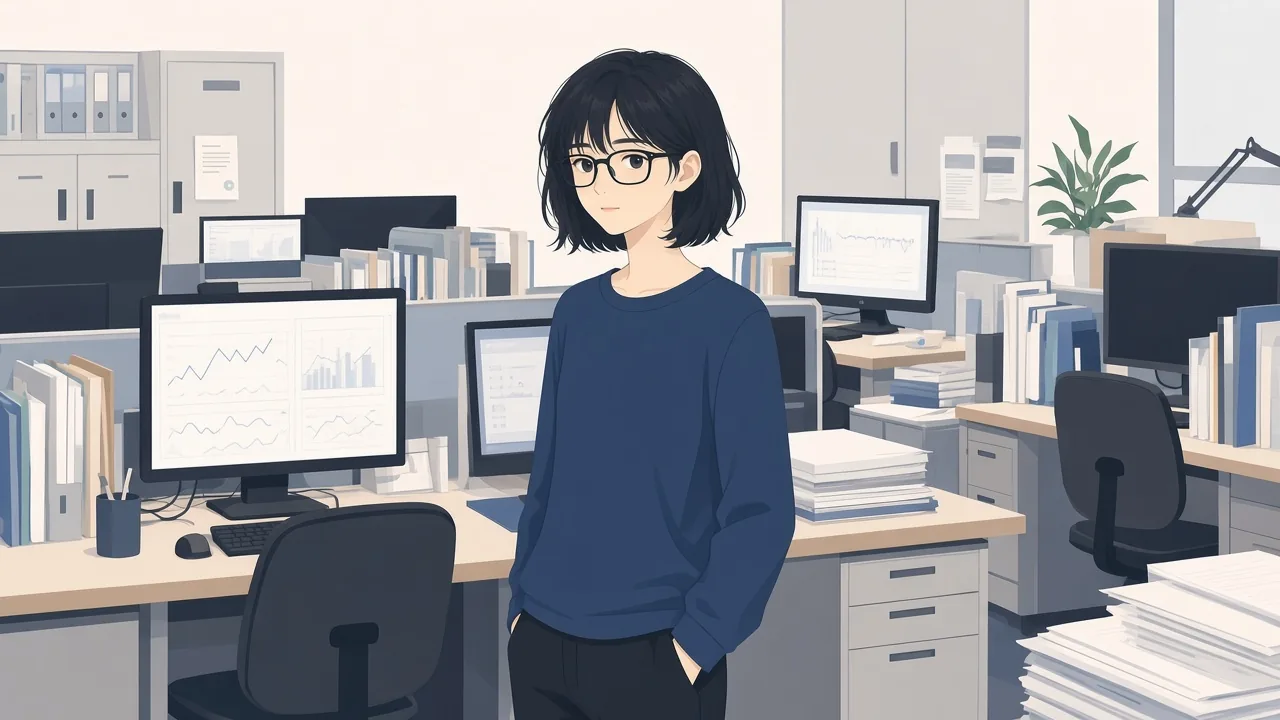
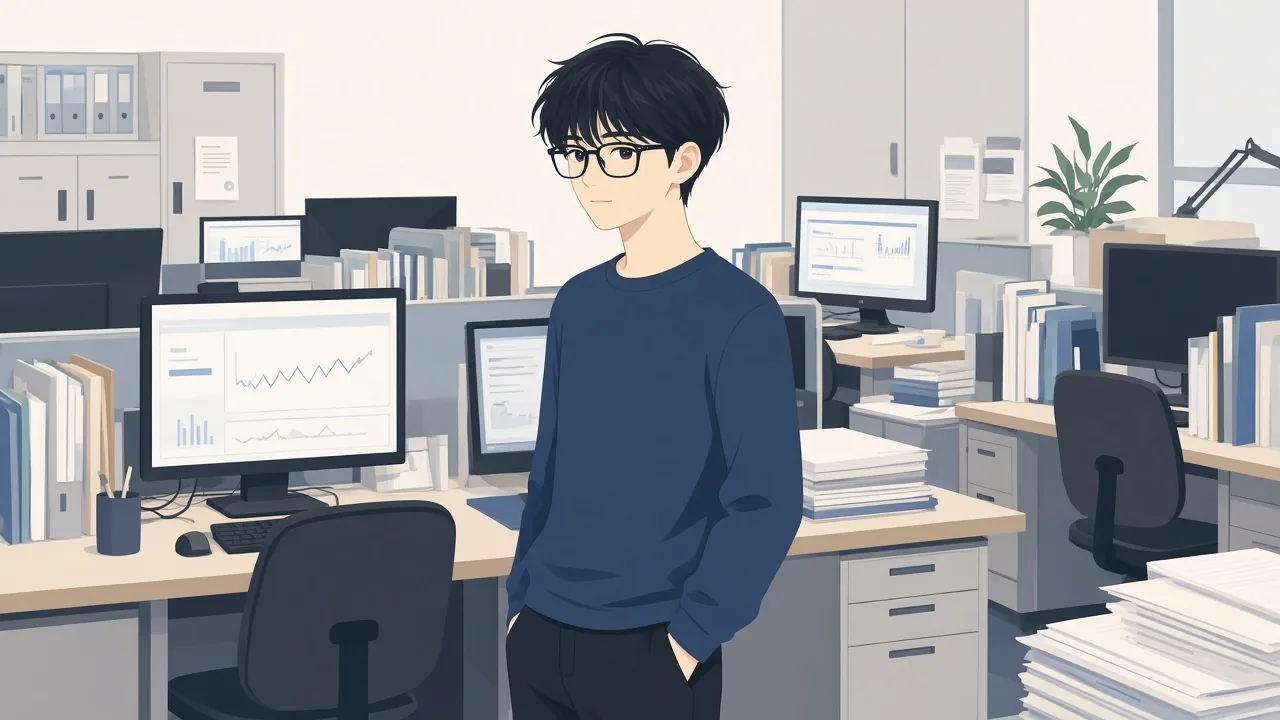
場景改回較早的歐海辰圖，人物卡去掉瘦削。

diff --git a/index.html b/index.html
@@ -39,7 +39,7 @@ button{cursor:pointer;touch-action:manipulation;}
  content:"";position:absolute;inset:0;
  background:
   linear-gradient(180deg,rgba(8,10,12,.15) 0%,rgba(8,10,12,.55) 42%,rgba(8,10,12,.92) 100%),
-  url("assets/bg_counsel.webp?v=thin2") center/cover no-repeat;
+  url("assets/bg_counsel.webp?v=early") center/cover no-repeat;
 }
 #title h1,#title .tbtn{position:relative;z-index:1;}
 #title h1{
@@ -258,7 +258,7 @@ var PLACES={
 var PLACE_ORDER=["counsel","hall","data","nurse","lobby","cafe","ward","roof","admin","er","home"];
 var PEOPLE={
  haichen:{n:"歐海辰",g:"f",age:28,role:"血管數據分析員",loc:"counsel",around:1,color:"#d7e2dc",know:[],
-  card:"女，28 歲。身形瘦削、虛弱。短黑髮，粗黑框眼鏡。不是病人時穿深藍色襯衫；人在病房或急診、已入院或躺在床上時才是病人。結構變數，不是裝飾。亞斯伯格、創傷後應激、系統性血管炎、冠狀動脈痙攣（隨身帶硝酸甘油）、偏頭痛時視野模糊。靠近語言區的動脈瘤與血型，開局她自己還不知道，旁白不可預告。說話像在報數據，痛的時候淺笑，緊張時弄衣角。目標：不要被送進精神病院，不要拖累陳海柔。開局想不起護士長。刪掉她的能動、她的醫療危機或她的關鍵位置，都是禁止的。"},
+  card:"女，28 歲。短黑髮，粗黑框眼鏡。不是病人時穿深藍色襯衫；人在病房或急診、已入院或躺在床上時才是病人。結構變數，不是裝飾。亞斯伯格、創傷後應激、系統性血管炎、冠狀動脈痙攣（隨身帶硝酸甘油）、偏頭痛時視野模糊。靠近語言區的動脈瘤與血型，開局她自己還不知道，旁白不可預告。說話像在報數據，痛的時候淺笑，緊張時弄衣角。目標：不要被送進精神病院，不要拖累陳海柔。開局想不起護士長。刪掉她的能動、她的醫療危機或她的關鍵位置，都是禁止的。"},
  hairuo:{n:"陳海柔",g:"f",age:33,role:"臨床心理學家",loc:"counsel",around:1,color:"#8fb9a8",know:["couple","sisterlove"],
   card:"33 歲。很長的黑髮，棗紅西裝外套，沒有戴眼鏡。每週與歐海辰諮商三次，約一年。不是完美溫柔的拯救者。會自責、會失控，可能做出帶控制、甚至傷害性的照護決定；核心仍是無法放棄墨星辰，也無法放棄歐海辰。專業與情感互相衝突：可以安撫，也可以是下令約束或侵入性照護的人。對歐海辰是長姐之愛，不是愛情。與墨星辰同居約五年，是她的伴侶；這段關係歐海辰不知道，全院其他人知道，但不得向歐海辰說破。她曾是墨星辰的心理治療師，此節也不可對歐海辰說破。"},
  xingchen:{n:"墨星辰",g:"f",age:33,role:"副院長 · 心胸外科的頂點",loc:"admin",around:0,color:"#d9cbb8",know:["couple","sisterlove"],
@@ -1604,7 +1604,7 @@ function render(){
   var key=sceneBgKey();
   if(bg.getAttribute("data-k")!==key){
    bg.setAttribute("data-k",key);
-   bg.style.backgroundImage="url('assets/bg_"+key+".webp?v=thin2')";
+   bg.style.backgroundImage="url('assets/bg_"+key+".webp?v=early')";
   }
  }
  renderMeters();

diff --git a/src/01_data.js b/src/01_data.js
@@ -16,7 +16,7 @@ var PLACES={
 var PLACE_ORDER=["counsel","hall","data","nurse","lobby","cafe","ward","roof","admin","er","home"];
 var PEOPLE={
  haichen:{n:"歐海辰",g:"f",age:28,role:"血管數據分析員",loc:"counsel",around:1,color:"#d7e2dc",know:[],
-  card:"女，28 歲。身形瘦削、虛弱。短黑髮，粗黑框眼鏡。不是病人時穿深藍色襯衫；人在病房或急診、已入院或躺在床上時才是病人。結構變數，不是裝飾。亞斯伯格、創傷後應激、系統性血管炎、冠狀動脈痙攣（隨身帶硝酸甘油）、偏頭痛時視野模糊。靠近語言區的動脈瘤與血型，開局她自己還不知道，旁白不可預告。說話像在報數據，痛的時候淺笑，緊張時弄衣角。目標：不要被送進精神病院，不要拖累陳海柔。開局想不起護士長。刪掉她的能動、她的醫療危機或她的關鍵位置，都是禁止的。"},
+  card:"女，28 歲。短黑髮，粗黑框眼鏡。不是病人時穿深藍色襯衫；人在病房或急診、已入院或躺在床上時才是病人。結構變數，不是裝飾。亞斯伯格、創傷後應激、系統性血管炎、冠狀動脈痙攣（隨身帶硝酸甘油）、偏頭痛時視野模糊。靠近語言區的動脈瘤與血型，開局她自己還不知道，旁白不可預告。說話像在報數據，痛的時候淺笑，緊張時弄衣角。目標：不要被送進精神病院，不要拖累陳海柔。開局想不起護士長。刪掉她的能動、她的醫療危機或她的關鍵位置，都是禁止的。"},
  hairuo:{n:"陳海柔",g:"f",age:33,role:"臨床心理學家",loc:"counsel",around:1,color:"#8fb9a8",know:["couple","sisterlove"],
   card:"33 歲。很長的黑髮，棗紅西裝外套，沒有戴眼鏡。每週與歐海辰諮商三次，約一年。不是完美溫柔的拯救者。會自責、會失控，可能做出帶控制、甚至傷害性的照護決定；核心仍是無法放棄墨星辰，也無法放棄歐海辰。專業與情感互相衝突：可以安撫，也可以是下令約束或侵入性照護的人。對歐海辰是長姐之愛，不是愛情。與墨星辰同居約五年，是她的伴侶；這段關係歐海辰不知道，全院其他人知道，但不得向歐海辰說破。她曾是墨星辰的心理治療師，此節也不可對歐海辰說破。"},
  xingchen:{n:"墨星辰",g:"f",age:33,role:"副院長 · 心胸外科的頂點",loc:"admin",around:0,color:"#d9cbb8",know:["couple","sisterlove"],

diff --git a/ui/style.css b/ui/style.css
@@ -28,7 +28,7 @@ button{cursor:pointer;touch-action:manipulation;}
  content:"";position:absolute;inset:0;
  background:
   linear-gradient(180deg,rgba(8,10,12,.15) 0%,rgba(8,10,12,.55) 42%,rgba(8,10,12,.92) 100%),
-  url("assets/bg_counsel.webp?v=thin2") center/cover no-repeat;
+  url("assets/bg_counsel.webp?v=early") center/cover no-repeat;
 }
 #title h1,#title .tbtn{position:relative;z-index:1;}
 #title h1{

diff --git a/src/06_ui.js b/src/06_ui.js
@@ -93,7 +93,7 @@ function render(){
   var key=sceneBgKey();
   if(bg.getAttribute("data-k")!==key){
    bg.setAttribute("data-k",key);
-   bg.style.backgroundImage="url('assets/bg_"+key+".webp?v=thin2')";
+   bg.style.backgroundImage="url('assets/bg_"+key+".webp?v=early')";
   }
  }
  renderMeters();
